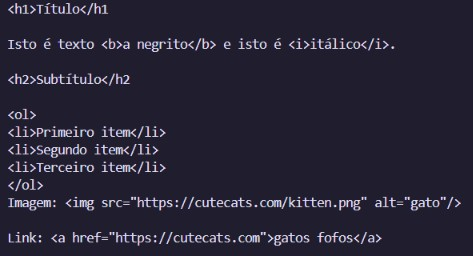
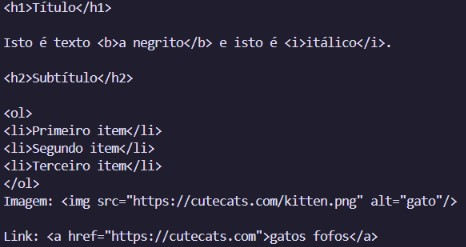
ajuste nos cabeçalhos

diff --git a/TP2/mdTohtml.py b/TP2/mdTohtml.py
@@ -4,7 +4,7 @@ def header(txt):
     level = len(txt.group(1))    #quantos '#'
     text = txt.group(2)
 
-    return f"<h{level}>{text}</h{level}"
+    return f"<h{level}>{text}</h{level}>"
 
 def mdTohtml(text):
     #cabeçalhos
